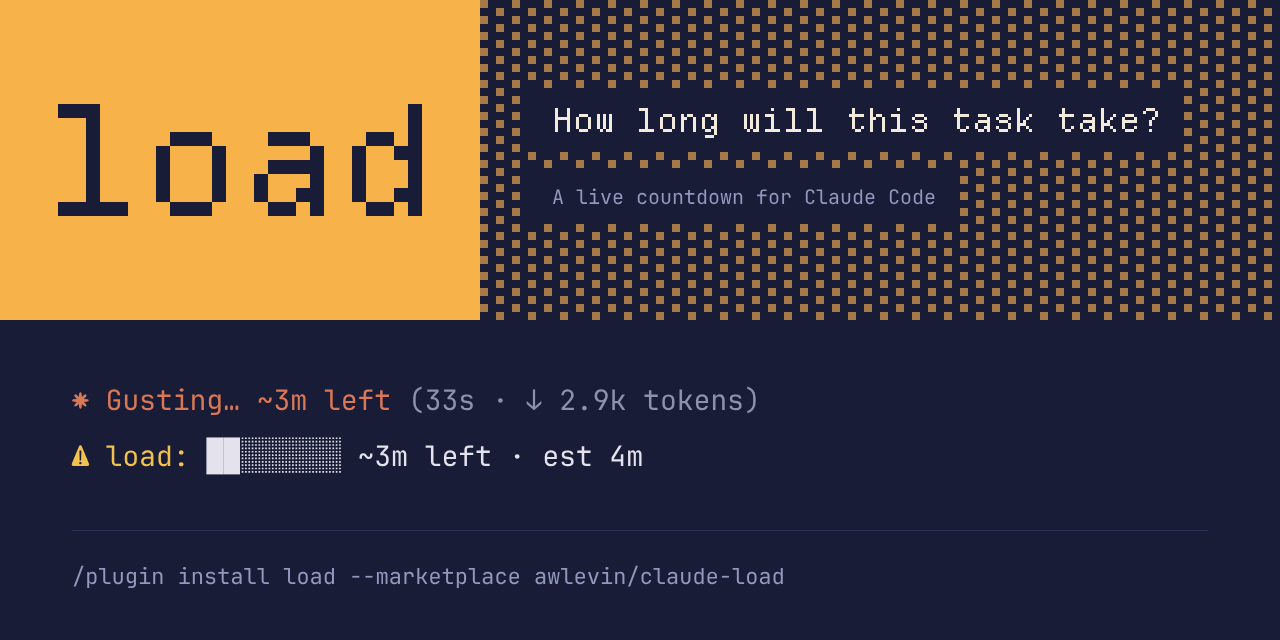
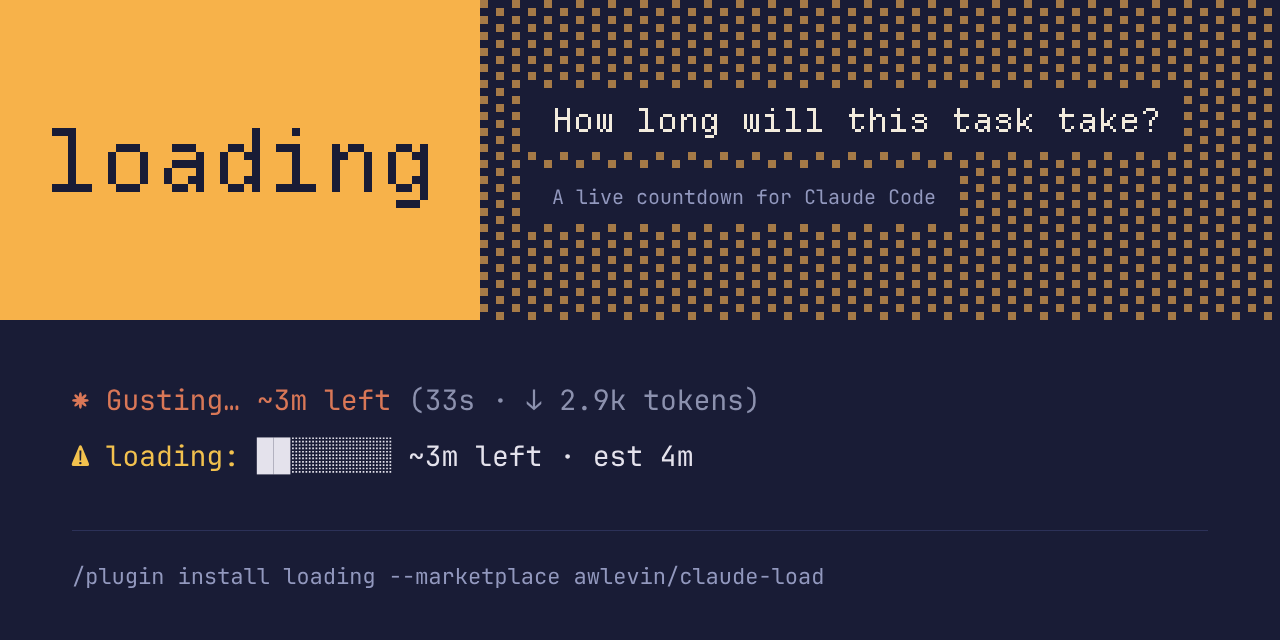
Rename the plugin to loading
Install: /plugin install loading --marketplace awlevin/claude-load.
The repo, marketplace, /load command and ~/.claude/load data stay as
they are. Banner, preview and README follow the new name.

Changed region(s): [[0.0312, 0.1562, 0.3438, 0.3438], [0.125, 0.6562, 0.5312, 0.75], [0.25, 0.875, 0.6562, 0.9375]]

diff --git a/hooks/register.tsx b/hooks/register.tsx
@@ -35,12 +35,12 @@ import {
 
 type $ = EngineInterface
 
-const task = atom({ plugin: 'load', key: 'task' } as const, null as LoadTask | null)
-const label = atom({ plugin: 'load', key: 'label' } as const, null as string | null)
-const turnStartedAt = atom({ plugin: 'load', key: 'turnStartedAt' } as const, null as number | null)
-const treeBaseline = atom({ plugin: 'load', key: 'treeBaseline' } as const, null as string | null)
-const statsData = atom({ plugin: 'load', key: 'statsData' } as const, null as StatsData | null)
-const agentStarts = atom({ plugin: 'load', key: 'agentStarts' } as const, {} as Record<string, number>)
+const task = atom({ plugin: 'loading', key: 'task' } as const, null as LoadTask | null)
+const label = atom({ plugin: 'loading', key: 'label' } as const, null as string | null)
+const turnStartedAt = atom({ plugin: 'loading', key: 'turnStartedAt' } as const, null as number | null)
+const treeBaseline = atom({ plugin: 'loading', key: 'treeBaseline' } as const, null as string | null)
+const statsData = atom({ plugin: 'loading', key: 'statsData' } as const, null as StatsData | null)
+const agentStarts = atom({ plugin: 'loading', key: 'agentStarts' } as const, {} as Record<string, number>)
 
 /** How often the countdown and the background estimates are checked. */
 const TICK_MS = 2_000
@@ -139,7 +139,7 @@ async function estimate($: $, t: LoadTask): Promise<void> {
     if (answer === null) {
       failures = { taskId: t.id, count: failures.taskId === t.id ? failures.count + 1 : 1 }
       const why = reply.isAnswered ? `unreadable reply: ${reply.text.slice(0, 200)}` : reply.reason
-      $.ui.log(`load: estimate failed (${why})`, { to: 'debug' })
+      $.ui.log(`loading: estimate failed (${why})`, { to: 'debug' })
       return
     }
     // An overrun is evidence against shrinking: re-estimates never scale down.
@@ -307,7 +307,7 @@ async function onShipped($: $, command: string, output: string): Promise<void> {
 }
 
 function debug($: $, where: string, err: unknown): void {
-  $.ui.log(`load: ${where} failed: ${err instanceof Error ? err.message : String(err)}`, { to: 'debug' })
+  $.ui.log(`loading: ${where} failed: ${err instanceof Error ? err.message : String(err)}`, { to: 'debug' })
 }
 
 async function refreshStats($: $): Promise<void> {
@@ -318,7 +318,7 @@ async function refreshStats($: $): Promise<void> {
 
 async function openStats($: $): Promise<void> {
   await refreshStats($)
-  await $.ui.open({ id: STATS_PANE, title: 'load · accuracy', focus: true, closeOnEscape: true })
+  await $.ui.open({ id: STATS_PANE, title: 'loading · accuracy', focus: true, closeOnEscape: true })
 }
 
 /** The short text answer of `/load`; `/load stats` has the full picture. */

diff --git a/hooks/core.ts b/hooks/core.ts
@@ -237,7 +237,7 @@ const ANSWER_SHAPE =
 
 export function estimatePrompt(task: LoadTask, history: readonly LoadTask[], now: number): string {
   return [
-    '[load plugin: a background timing question. It is not from the user. Do not continue the task or call tools; answer only as asked.]',
+    '[loading plugin: a background timing question. It is not from the user. Do not continue the task or call tools; answer only as asked.]',
     '',
     'You have started implementing a task in this conversation. Estimate how much more of your own active working time it needs until the work is committed and pushed (or a PR is open), ready for review.',
     'Count only time you spend working: your turns, tool runs, builds, tests, and CI you wait on. Do not count time spent waiting for the user.',
@@ -256,7 +256,7 @@ export function estimatePrompt(task: LoadTask, history: readonly LoadTask[], now
 export function reestimatePrompt(task: LoadTask, now: number): string {
   const last = task.estimates.at(-1)
   return [
-    '[load plugin: a background timing question. It is not from the user. Do not continue the task or call tools; answer only as asked.]',
+    '[loading plugin: a background timing question. It is not from the user. Do not continue the task or call tools; answer only as asked.]',
     '',
     `The task "${task.summary ?? task.trigger}" has used ${formatDuration(agentElapsed(task, now))} of your active time.`,
     last ? `The earlier estimate was ${formatDuration(last.p50Ms)} in total, so it is taking longer than expected.` : '',
@@ -268,7 +268,7 @@ export function reestimatePrompt(task: LoadTask, now: number): string {
 export function explainPrompt(task: LoadTask): string {
   const est = task.estimates[0]
   return [
-    '[load plugin: a background question. It is not from the user. Do not call tools; answer only as asked.]',
+    '[loading plugin: a background question. It is not from the user. Do not call tools; answer only as asked.]',
     '',
     `The task "${task.summary ?? task.trigger}" is finished: the work is committed and pushed. It took ${formatDuration(task.agentMs)} of your active time` +
       (task.humanMs > MINUTE ? ` (plus ${formatDuration(task.humanMs)} waiting for the user)` : '') +

diff --git a/types/index.d.ts b/types/index.d.ts
@@ -63,7 +63,7 @@ export type StatsData = {
 
 declare module 'claude-code' {
   interface PluginState {
-    load: {
+    loading: {
       task: LoadTask | null
       /** The text the spinner and status line show; null shows nothing. */
       label: string | null

diff --git a/README.md b/README.md
@@ -1,11 +1,11 @@
 <p align="center">
-  <img src="assets/banner.svg" alt="load: how long will this task take?" width="100%">
+  <img src="assets/banner.svg" alt="loading: how long will this task take?" width="100%">
 </p>
 
 **load** adds a live time-remaining countdown to Claude Code. Agent UIs tell you *working*, *done* or *needs input*. load tells you *how long*.
 
 <p align="center">
-  <img src="assets/terminal.svg" alt="A Claude Code session. The spinner reads “Gusting… ~3m left”. The status line under the prompt reads “⚠ load: ██░░░░░░ ~3m left · est 4m · Build CLI calculator, tests, commit, push”." width="880">
+  <img src="assets/terminal.svg" alt="A Claude Code session. The spinner reads “Gusting… ~3m left”. The status line under the prompt reads “⚠ loading: ██░░░░░░ ~3m left · est 4m · Build CLI calculator, tests, commit, push”." width="880">
 </p>
 
 ## Install
@@ -13,7 +13,7 @@
 In a Claude Code session:
 
 ```
-/plugin install load --marketplace awlevin/claude-load
+/plugin install loading --marketplace awlevin/claude-load
 ```
 
 Answer `y` to add the marketplace. The plugin is named `load` because plugin names cannot start with `claude-`.
@@ -45,7 +45,7 @@ Plugins cannot draw in Claude Code's multi-agent session list, so the countdown 
 
 ## Settings
 
-In `/config`, search for "load":
+In `/config`, search for "loading":
 
 - `barStyle`: `blocks` (default) `█████░░░`, `parallelograms` `▰▰▰▰▰▱▱▱`, or `ascii` `[#####---]`.
 - `onOverrun`: `re-estimate` (default), or `say-overdue` to show *taking longer than expected*.
